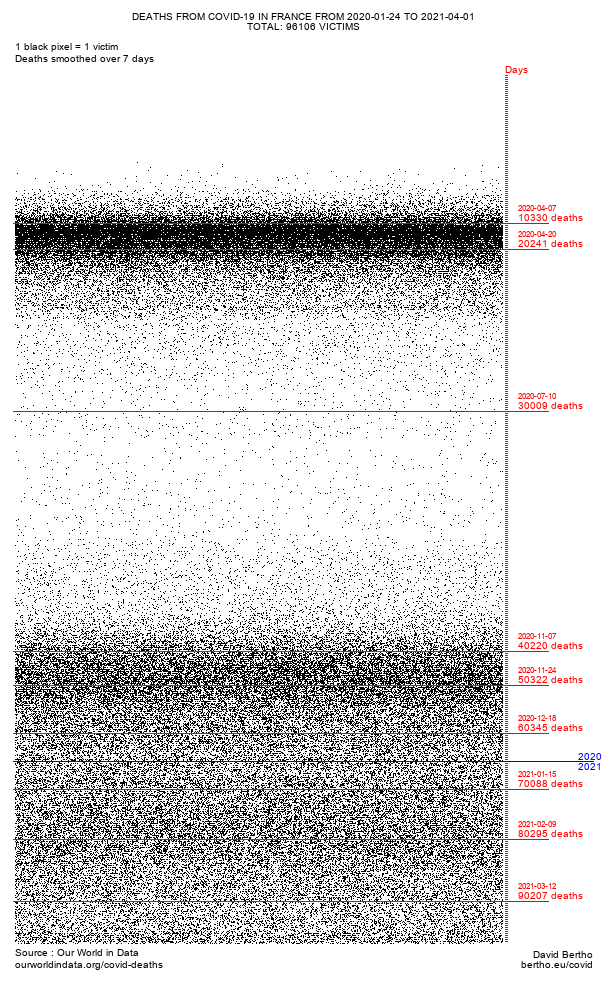
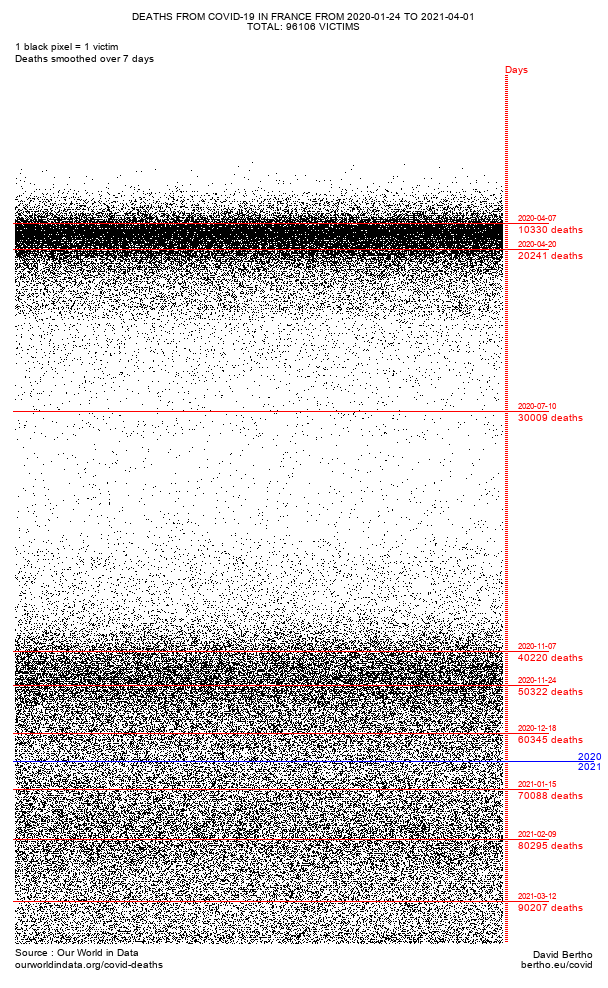
Updated layout Added option to export graphs for all countries

Changed region(s): [[0.0312, 0.5466, 0.9688, 0.9717], [0.0312, 0.1822, 0.9688, 0.3644], [0.8438, 0.3947, 0.9688, 0.4251]]

diff --git a/covid_deaths_graph.py b/covid_deaths_graph.py
@@ -43,11 +43,11 @@ def print_ten_thousand_text(draw, total_deaths, date, line_y, text_left):
                                                                                 font=font_small)
     ten_thousand_text_deaths_width, ten_thousand_text_deaths_height = draw.textsize(ten_thousand_text_deaths,
                                                                                     font=font_regular)
-    draw.text((text_left, line_y - ten_thousand_text_deaths_height - ten_thousand_text_date_height),
+    draw.text((text_left, line_y - ten_thousand_text_date_height),
               ten_thousand_text_date,
               font=font_small,
               fill=(255, 0, 0))
-    draw.text((text_left, line_y - ten_thousand_text_deaths_height),
+    draw.text((text_left, line_y + 2),
               ten_thousand_text_deaths + " deaths",
               font=font_regular,
               fill=(255, 0, 0))
@@ -250,35 +250,12 @@ def generate_image(data, location, region):
     img.save('covid_' + region.lower() + '.png')
 
 
-def main():
-    """
-    this is the URL for a JSON file maintained by Our World in Data containing data for all countries and regions
-    change it with the URL of your choice
-    """
-    # set the region for which you want to create the graph
-    # exemples: France: FRA, United Kingdom: GBR, Taiwan: TWN, European Union: OWID_EUN, World: OWID_WRL ...
-    region = "OWID_WRL"
-
-    req = urllib.request.Request(
-        "https://raw.githubusercontent.com/owid/covid-19-data/master/public/data/owid-covid-data.json")
+def prepare_data(json_data, region):
+    location = json_data[region]["location"]
     full_data = []
 
-    try:
-        response = urllib.request.urlopen(req)
-    except HTTPError as e:
-        print('Service unavailable.')
-        print('Error : ', e.code)
-        exit(0)
-    except URLError as e:
-        print('Server unreachable.')
-        print('Error : ', e.reason)
-        exit(0)
-    print("JSON downloaded")
-
-    with response as json_file:
-        json_data = json.load(json_file)
-
-    location = json_data[region]["location"]
+    if not "total_deaths" in json_data[region]["data"][-1]:
+        return None
 
     # this loop parses each day of the JSON file and adds the relevant processed data in a new dictionary file
     for day in json_data[region]["data"]:
@@ -295,7 +272,7 @@ def main():
             total_deaths = 0
 
         # do not calculate the moving average for countries with very few deaths
-        if len(full_data) >= 7 and json_data[region]["data"][-1]["total_deaths"] > 100:
+        if len(full_data) >= 7 and json_data[region]["data"][-1]["total_deaths"] > 5000:
             moving_average = calc_moving_average(full_data, 7)
         else:
             moving_average = daily_deaths
@@ -308,6 +285,42 @@ def main():
         full_data.append(date_data.copy())
 
     generate_image(full_data, location, region)
+    print(location + " exported")
+
+
+def main():
+    """
+    this is the URL for a JSON file maintained by Our World in Data containing data for all countries and regions
+    change it with the URL of your choice
+    """
+    # set the region for which you want to create the graph
+    # exemples: France: FRA, United Kingdom: GBR, Taiwan: TWN, European Union: OWID_EUN, World: OWID_WRL ...
+    # to create graphs for each country and region, set this value to "all_countries"
+    region = "all_countries"
+
+    req = urllib.request.Request(
+        "https://raw.githubusercontent.com/owid/covid-19-data/master/public/data/owid-covid-data.json")
+
+    try:
+        response = urllib.request.urlopen(req)
+    except HTTPError as e:
+        print('Service unavailable.')
+        print('Error : ', e.code)
+        exit(0)
+    except URLError as e:
+        print('Server unreachable.')
+        print('Error : ', e.reason)
+        exit(0)
+    print("JSON downloaded")
+
+    with response as json_file:
+        json_data = json.load(json_file)
+
+    if region == "all_countries":
+        for country in json_data:
+            prepare_data(json_data, country)
+    else:
+        prepare_data(json_data, region)
 
 
 if __name__ == '__main__':
